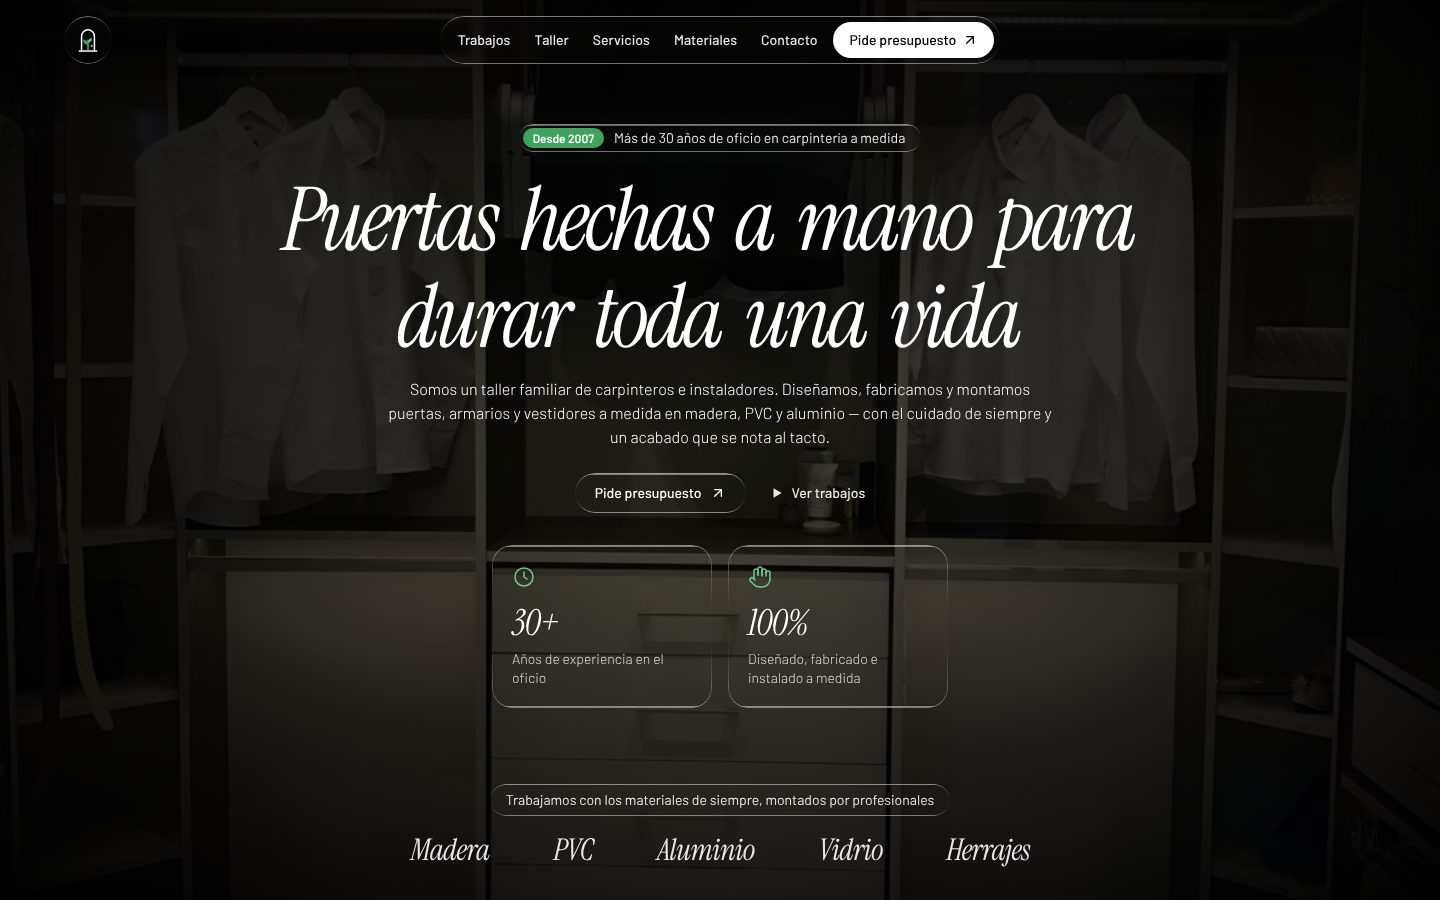
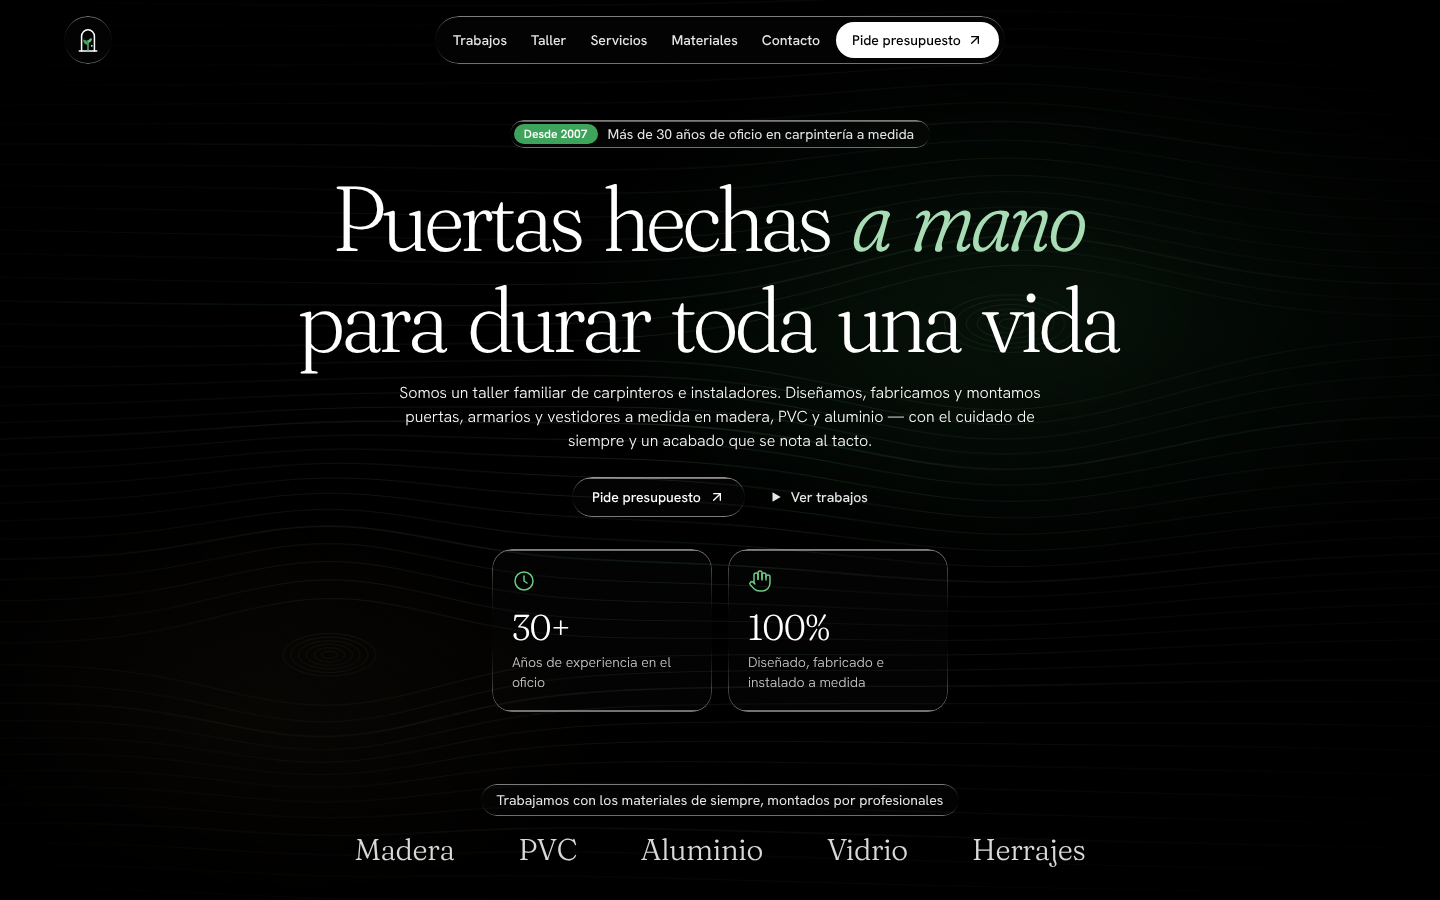
Nueva tipografía, fondo de vetas de madera y mejor rendimiento
- Fraunces (titulares) + Hanken Grotesk (texto) en lugar de Instrument Serif/Barlow
- Se quitan los vídeos de fondo; se sustituyen por vetas de madera en SVG
  que se dibujan al cargar y respiran despacio
- Menos desenfoque en el cristal, animación pausada fuera de pantalla y
  desactivada en móvil para evitar tirones

Claude-Session: https://claude.ai/code/session_01Ao6RVKmp1vd2jwvCaJLrqn

diff --git a/src/components/WoodGrain.tsx b/src/components/WoodGrain.tsx
@@ -1,0 +1,115 @@
+import { useEffect, useMemo, useRef, useState } from 'react'
+
+/**
+ * Fondo de vetas de madera generado en SVG.
+ * Las líneas rodean dos "nudos" como en un tablón real. Al cargar se dibujan,
+ * y después el conjunto "respira" muy despacio. Solo se anima transform/opacity
+ * (compuesto en GPU), así que no penaliza el rendimiento.
+ */
+
+const W = 1600
+const H = 1000
+
+type Knot = { x: number; y: number; sx: number; sy: number; strength: number }
+
+const KNOTS: Knot[] = [
+  { x: 1120, y: 360, sx: 170, sy: 75, strength: 70 },
+  { x: 380, y: 720, sx: 120, sy: 55, strength: 48 },
+]
+
+function grainLines(count: number, seed: number) {
+  const lines: string[] = []
+  const spacing = H / (count - 1)
+  for (let i = 0; i < count; i++) {
+    const y0 = i * spacing
+    const phase = (i * 0.37 + seed) % (Math.PI * 2)
+    let d = ''
+    for (let x = -40; x <= W + 40; x += 16) {
+      let y = y0 + Math.sin(x * 0.0021 + phase) * 9 + Math.sin(x * 0.0007 + i * 0.11) * 22
+      for (const k of KNOTS) {
+        const dy = y0 - k.y
+        const fall = Math.exp(-((x - k.x) ** 2) / (2 * k.sx ** 2)) * Math.exp(-(dy ** 2) / (2 * (k.sy * 2.4) ** 2))
+        y += Math.sign(dy || 1) * k.strength * fall
+      }
+      d += `${d ? 'L' : 'M'}${x.toFixed(1)} ${y.toFixed(1)}`
+    }
+    lines.push(d)
+  }
+  return lines
+}
+
+function knotRings(k: Knot, rings: number) {
+  return Array.from({ length: rings }, (_, r) => {
+    const t = (r + 1) / rings
+    return { rx: k.sx * 0.42 * t, ry: k.sy * 0.42 * t }
+  })
+}
+
+export default function WoodGrain({ animate = true, className = '' }: { animate?: boolean; className?: string }) {
+  const lines = useMemo(() => grainLines(46, 1.3), [])
+  const ref = useRef<HTMLDivElement>(null)
+  const [visible, setVisible] = useState(true)
+
+  // Pausa la animación cuando el fondo no está en pantalla
+  useEffect(() => {
+    if (!animate || !ref.current) return
+    const io = new IntersectionObserver(([e]) => setVisible(e.isIntersecting))
+    io.observe(ref.current)
+    return () => io.disconnect()
+  }, [animate])
+
+  return (
+    <div
+      ref={ref}
+      aria-hidden="true"
+      className={`pointer-events-none absolute inset-0 overflow-hidden [contain:paint] ${visible ? '' : 'grain-paused'} ${className}`}
+    >
+      {/* luz cálida que recorre la madera */}
+      <div className="grain-glow absolute -inset-[20%]" />
+
+      <svg
+        viewBox={`0 0 ${W} ${H}`}
+        preserveAspectRatio="xMidYMid slice"
+        className={`absolute inset-0 h-full w-full ${animate ? 'grain-breathe' : ''}`}
+      >
+        <defs>
+          <linearGradient id="grain-stroke" x1="0" x2="1" y1="0" y2="1">
+            <stop offset="0%" stopColor="#E9DCC6" stopOpacity="0.16" />
+            <stop offset="55%" stopColor="#6BCB85" stopOpacity="0.2" />
+            <stop offset="100%" stopColor="#E9DCC6" stopOpacity="0.1" />
+          </linearGradient>
+        </defs>
+
+        <g fill="none" stroke="url(#grain-stroke)" strokeWidth="1" vectorEffect="non-scaling-stroke">
+          {lines.map((d, i) => (
+            <path
+              key={i}
+              d={d}
+              pathLength={1}
+              className={animate ? 'grain-draw' : undefined}
+              style={animate ? { animationDelay: `${(i % 23) * 55}ms` } : undefined}
+              strokeWidth={i % 7 === 0 ? 1.6 : 1}
+            />
+          ))}
+          {KNOTS.map((k, ki) =>
+            knotRings(k, 6).map((r, ri) => (
+              <ellipse
+                key={`${ki}-${ri}`}
+                cx={k.x}
+                cy={k.y}
+                rx={r.rx}
+                ry={r.ry}
+                pathLength={1}
+                className={animate ? 'grain-draw' : undefined}
+                style={animate ? { animationDelay: `${600 + ri * 90}ms` } : undefined}
+              />
+            )),
+          )}
+        </g>
+      </svg>
+
+      {/* viñeta para que el texto respire */}
+      <div className="absolute inset-0 bg-[radial-gradient(ellipse_at_center,rgba(0,0,0,0.15)_0%,rgba(0,0,0,0.7)_65%,#000_100%)]" />
+    </div>
+  )
+}

diff --git a/src/components/Hero.tsx b/src/components/Hero.tsx
@@ -1,9 +1,9 @@
 import { motion } from 'framer-motion'
 import BlurText from './BlurText'
-import FadingVideo from './FadingVideo'
+import WoodGrain from './WoodGrain'
 import { LogoMark } from './Logo'
 import { ArrowUpRight, ClockIcon, HandIcon, Play } from './Icons'
-import { HERO_VIDEO, MAILTO } from '../data'
+import { MAILTO } from '../data'
 
 const fadeUp = {
   initial: { filter: 'blur(10px)', opacity: 0, y: 20 },
@@ -24,22 +24,7 @@ const MATERIALS = ['Madera', 'PVC', 'Aluminio', 'Vidrio', 'Herrajes']
 export default function Hero() {
   return (
     <section id="inicio" className="relative min-h-screen md:h-screen overflow-hidden bg-black">
-      {/* Fondo: foto real del taller + vídeo atmosférico encima */}
-      <img
-        src="/img/vestidor.webp"
-        alt=""
-        aria-hidden="true"
-        className="absolute inset-0 z-0 h-full w-full object-cover object-center opacity-45 scale-105"
-      />
-      <FadingVideo
-        src={HERO_VIDEO}
-        className="absolute left-1/2 top-0 -translate-x-1/2 object-cover object-top z-0"
-        style={{ width: '120%', height: '120%' }}
-      />
-      <div
-        aria-hidden="true"
-        className="absolute inset-0 z-0 bg-[radial-gradient(ellipse_at_center,rgba(0,0,0,0.25)_0%,rgba(0,0,0,0.75)_70%,#000_100%)]"
-      />
+      <WoodGrain />
 
       <div className="relative z-10 flex flex-col min-h-screen md:h-full">
         {/* Navbar */}
@@ -97,7 +82,8 @@ export default function Hero() {
           <div className="mt-6 max-w-4xl">
             <BlurText
               text="Puertas hechas a mano para durar toda una vida"
-              className="text-6xl md:text-7xl lg:text-[5.5rem] font-heading italic text-white leading-[0.8] tracking-[-4px]"
+              emphasis={['a', 'mano']}
+              className="text-[3.25rem] sm:text-6xl md:text-7xl lg:text-[5.75rem] font-heading text-white leading-[0.95] tracking-[-0.025em]"
             />
           </div>
 
@@ -146,7 +132,7 @@ export default function Hero() {
           </div>
           <ul className="flex flex-wrap justify-center gap-x-12 gap-y-2 md:gap-x-16">
             {MATERIALS.map((m) => (
-              <li key={m} className="font-heading italic text-2xl md:text-3xl tracking-tight text-white/90">
+              <li key={m} className="font-heading text-2xl md:text-3xl tracking-[-0.01em] text-white/85">
                 {m}
               </li>
             ))}
@@ -161,7 +147,7 @@ function StatCard({ icon, value, label }: { icon: React.ReactNode; value: string
   return (
     <div className="liquid-glass p-4 sm:p-5 w-[160px] sm:w-[220px] rounded-[1.25rem] text-left">
       <span className="text-eco-light">{icon}</span>
-      <div className="text-4xl font-heading italic tracking-[-1px] leading-none mt-4">{value}</div>
+      <div className="text-4xl font-heading tracking-[-0.02em] leading-none mt-4">{value}</div>
       <div className="mt-2 text-sm font-body font-light text-white/80 leading-snug">{label}</div>
     </div>
   )

diff --git a/src/components/Capabilities.tsx b/src/components/Capabilities.tsx
@@ -1,6 +1,6 @@
 import { motion } from "framer-motion";
 import type { ReactNode } from "react";
-import FadingVideo from "./FadingVideo";
+import WoodGrain from "./WoodGrain";
 import { LogoLockup } from "./Logo";
 import {
   DoorIcon,
@@ -11,7 +11,6 @@ import {
   ShieldIcon,
 } from "./Icons";
 import {
-  CAPABILITIES_VIDEO,
   CONTACT_EMAIL,
   FACEBOOK_URL,
   INSTAGRAM_URL,
@@ -81,20 +80,7 @@ export default function Capabilities() {
       id="servicios"
       className="relative min-h-screen overflow-hidden bg-black"
     >
-      <img
-        src="/img/armario-empotrado.webp"
-        alt=""
-        aria-hidden="true"
-        className="absolute inset-0 z-0 h-full w-full object-cover opacity-20 blur-sm"
-      />
-      <FadingVideo
-        src={CAPABILITIES_VIDEO}
-        className="absolute inset-0 w-full h-full object-cover z-0"
-      />
-      <div
-        aria-hidden="true"
-        className="absolute inset-0 z-0 bg-gradient-to-b from-black/70 via-black/40 to-black/90"
-      />
+      <WoodGrain animate={false} className="opacity-60" />
 
       <div className="relative z-10 px-8 md:px-16 lg:px-20 pt-24 pb-10 flex flex-col min-h-screen">
         <motion.header
@@ -105,8 +91,8 @@ export default function Capabilities() {
           <p className="text-sm font-body text-white/80 mb-6">
             <span className="text-eco-light">//</span> Lo que hacemos
           </p>
-          <h2 className="font-heading italic text-6xl md:text-7xl lg:text-[6rem] leading-[0.9] tracking-[-3px]">
-            Oficio artesano,
+          <h2 className="font-heading text-[3.25rem] sm:text-6xl md:text-7xl lg:text-[6rem] leading-[0.95] tracking-[-0.025em]">
+            Oficio <span className="em">artesano</span>,
             <br />
             de principio a fin
           </h2>
@@ -141,7 +127,7 @@ export default function Capabilities() {
               <div className="flex-1" />
 
               <div className="relative">
-                <h3 className="font-heading italic text-3xl md:text-4xl tracking-[-1px] leading-none">
+                <h3 className="font-heading text-3xl md:text-[2.5rem] tracking-[-0.02em] leading-[1.05]">
                   {card.title}
                 </h3>
                 <p className="mt-3 text-sm text-white/90 font-body font-light leading-snug max-w-[32ch]">

diff --git a/src/index.css b/src/index.css
@@ -6,7 +6,8 @@ html,
 body {
   background: #000;
   color: #fff;
-  font-family: 'Barlow', sans-serif;
+  font-family: 'Hanken Grotesk', sans-serif;
+  -webkit-font-smoothing: antialiased;
 }
 
 html {
@@ -55,8 +56,8 @@ html {
 .liquid-glass-strong {
   background: rgba(255, 255, 255, 0.01);
   background-blend-mode: luminosity;
-  backdrop-filter: blur(50px);
-  -webkit-backdrop-filter: blur(50px);
+  backdrop-filter: blur(20px);
+  -webkit-backdrop-filter: blur(20px);
   border: none;
   box-shadow: 4px 4px 4px rgba(0, 0, 0, 0.05), inset 0 1px 1px rgba(255, 255, 255, 0.15);
   position: relative;
@@ -84,8 +85,69 @@ html {
   pointer-events: none;
 }
 
+/* ---------- Tipografía de titulares ---------- */
+.font-heading {
+  font-weight: 300;
+  font-optical-sizing: auto;
+  font-variation-settings: 'SOFT' 60, 'WONK' 0;
+}
+.font-heading em,
+.font-heading .em {
+  font-style: italic;
+  font-variation-settings: 'SOFT' 100, 'WONK' 1;
+  color: #a7dcb5;
+}
+
+/* ---------- Fondo de vetas de madera ---------- */
+.grain-draw {
+  stroke-dasharray: 1;
+  stroke-dashoffset: 1;
+  animation: grain-draw 2.6s cubic-bezier(0.22, 1, 0.36, 1) forwards;
+}
+@keyframes grain-draw {
+  to {
+    stroke-dashoffset: 0;
+  }
+}
+
+.grain-breathe {
+  transform-origin: 60% 40%;
+  animation: grain-breathe 26s ease-in-out infinite alternate;
+  will-change: transform;
+}
+.grain-paused .grain-breathe {
+  animation-play-state: paused;
+}
+@media (max-width: 767px) {
+  .grain-breathe {
+    animation: none;
+    will-change: auto;
+  }
+}
+@keyframes grain-breathe {
+  from {
+    transform: translate3d(0, 0, 0) scale(1.02);
+  }
+  to {
+    transform: translate3d(-2.5%, 1.5%, 0) scale(1.08);
+  }
+}
+
+.grain-glow {
+  background:
+    radial-gradient(38% 32% at 68% 38%, rgba(63, 164, 91, 0.22), transparent 70%),
+    radial-gradient(30% 26% at 25% 72%, rgba(196, 150, 96, 0.14), transparent 70%);
+}
+
 @media (prefers-reduced-motion: reduce) {
   html {
     scroll-behavior: auto;
+  }
+  .grain-draw {
+    animation: none;
+    stroke-dashoffset: 0;
+  }
+  .grain-breathe {
+    animation: none;
   }
 }

diff --git a/src/components/BlurText.tsx b/src/components/BlurText.tsx
@@ -5,9 +5,11 @@ type Props = {
   text: string
   className?: string
   as?: 'h1' | 'h2' | 'p'
+  /** Palabras que se muestran en cursiva verde */
+  emphasis?: string[]
 }
 
-export default function BlurText({ text, className, as = 'h1' }: Props) {
+export default function BlurText({ text, className, as = 'h1', emphasis = [] }: Props) {
   const ref = useRef<HTMLElement>(null)
   const [inView, setInView] = useState(false)
   const words = text.split(' ')
@@ -41,9 +43,10 @@ export default function BlurText({ text, className, as = 'h1' }: Props) {
         <motion.span
           key={`${word}-${i}`}
           aria-hidden="true"
-          style={{ display: 'inline-block', marginRight: '0.28em' }}
+          className={emphasis.includes(word) ? 'em' : undefined}
+          style={{ display: 'inline-block', marginRight: '0.24em', willChange: 'transform, opacity, filter' }}
           initial={{ filter: 'blur(10px)', opacity: 0, y: 50 }}
-          animate={inView ? { filter: 'blur(0px)', opacity: 1, y: 0 } : undefined}
+          animate={inView ? { filter: 'blur(0px)', opacity: 1, y: 0, transitionEnd: { filter: 'none', willChange: 'auto' } } : undefined}
           transition={{ duration: 0.7, delay: i * 0.1, ease: 'easeOut' }}
         >
           {word}

diff --git a/src/data.ts b/src/data.ts
@@ -5,9 +5,3 @@ export const MAILTO = `mailto:${CONTACT_EMAIL}?subject=${encodeURIComponent(
 )}`
 export const FACEBOOK_URL = 'https://www.facebook.com/ecopuertafactory/'
 export const INSTAGRAM_URL = 'https://www.instagram.com/ecopuerta_me/'
-
-// Vídeos de fondo (del prompt original). Si no cargan, debajo hay una foto real del taller.
-export const HERO_VIDEO =
-  'https://d8j0ntlcm91z4.cloudfront.net/user_38xzZboKViGWJOttwIXH07lWA1P/hf_20260619_191346_9d19d66e-86a4-47f7-8dc6-712c1788c3b2.mp4'
-export const CAPABILITIES_VIDEO =
-  'https://d8j0ntlcm91z4.cloudfront.net/user_38xzZboKViGWJOttwIXH07lWA1P/hf_20260622_093722_ccfc7ebf-182f-419f-8a62-2dc02db7dd9d.mp4'

diff --git a/src/components/Logo.tsx b/src/components/Logo.tsx
@@ -27,7 +27,7 @@ export function LogoLockup({ className = '' }: { className?: string }) {
     <span className={`inline-flex items-center gap-3 ${className}`}>
       <LogoMark className="h-9 w-9 text-white" />
       <span className="flex flex-col leading-none">
-        <span className="font-heading italic text-2xl tracking-[-0.5px]">Ecopuerta</span>
+        <span className="font-heading text-2xl tracking-[-0.01em]">Ecopuerta</span>
         <span className="font-body text-[10px] font-medium uppercase tracking-[0.35em] text-eco-light">
           Factory
         </span>

diff --git a/index.html b/index.html
@@ -16,7 +16,7 @@
     <link rel="preconnect" href="https://fonts.googleapis.com" />
     <link rel="preconnect" href="https://fonts.gstatic.com" crossorigin />
     <link
-      href="https://fonts.googleapis.com/css2?family=Barlow:wght@300;400;500;600&family=Instrument+Serif:ital@0;1&display=swap"
+      href="https://fonts.googleapis.com/css2?family=Fraunces:ital,opsz,wght,SOFT,WONK@0,9..144,300..500,0..100,0..1;1,9..144,300..500,0..100,0..1&family=Hanken+Grotesk:wght@300;400;500;600&display=swap"
       rel="stylesheet"
     />
   </head>

diff --git a/tailwind.config.js b/tailwind.config.js
@@ -4,8 +4,8 @@ export default {
   theme: {
     extend: {
       fontFamily: {
-        heading: ["'Instrument Serif'", 'serif'],
-        body: ["'Barlow'", 'sans-serif'],
+        heading: ["'Fraunces'", 'Georgia', 'serif'],
+        body: ["'Hanken Grotesk'", 'system-ui', 'sans-serif'],
       },
       colors: {
         // Verde identitario de Ecopuerta Factory
